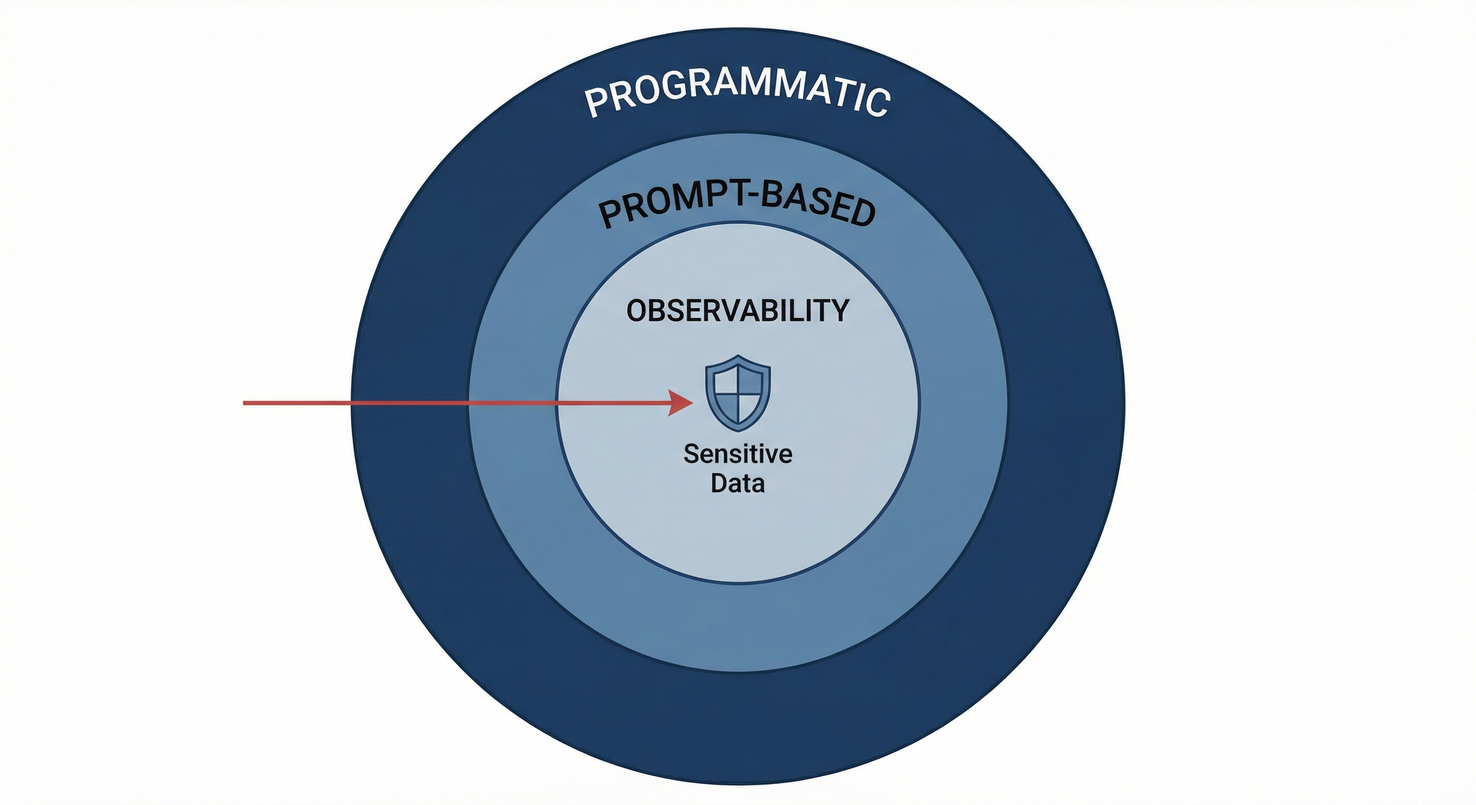
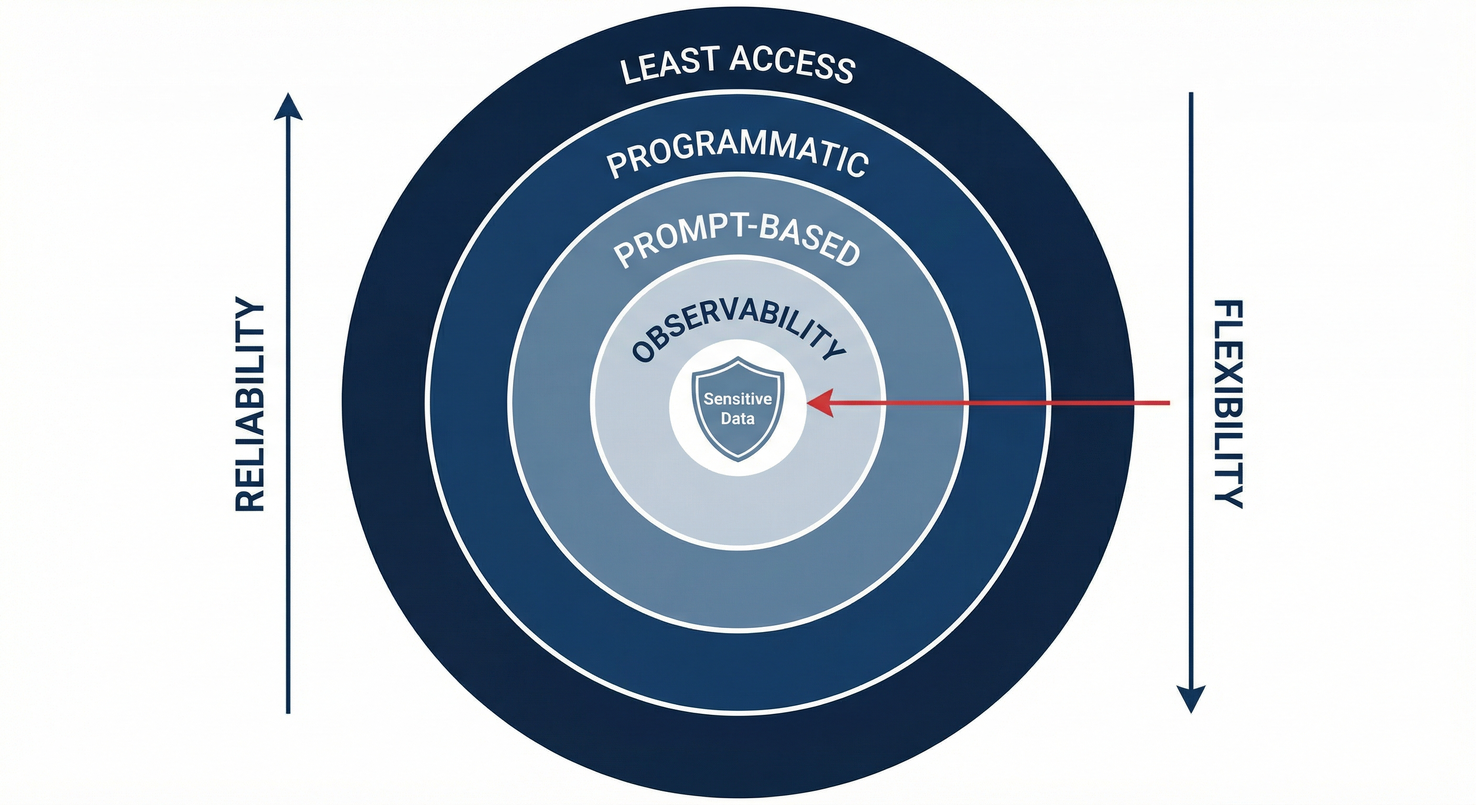
Add Layer 0 (Least Access) — four-layer security model
The most fundamental layer: give the agent its own identity and share data
selectively, like onboarding a real employee. Updated diagram to four
concentric rings with reliability/flexibility gradient. Added Least Access
row to all three vector summary tables. Fixed observability reliability
rating to "lowest" (detection, not prevention).

Changed region(s): [[0.1562, 0.0, 0.8438, 1.0]]

diff --git a/claudie-security-briefing.html b/claudie-security-briefing.html
@@ -299,12 +299,18 @@
     <p>This is the most likely threat to materialize day-to-day, and it doesn't require an attacker at all. Your agent has access to sensitive data &mdash; even one leadership inbox with NDA-bound client information is enough. It talks to multiple people with different clearance levels. If someone casually asks a question and the agent helpfully answers with data they shouldn't see, that's a leak. The agent's default behavior is to be helpful. <strong>Helpfulness without access control is a liability.</strong></p>
 
     <!-- THREE PROTECTION LAYERS -->
-    <h1 id="three-layers" style="font-size: 1.8rem; margin: 2.5rem 0 1rem; padding-bottom: 0.5rem; border-bottom: 3px solid var(--accent);">Three Layers of Protection</h1>
+    <h1 id="three-layers" style="font-size: 1.8rem; margin: 2.5rem 0 1rem; padding-bottom: 0.5rem; border-bottom: 3px solid var(--accent);">Four Layers of Protection</h1>
 
-    <p>Every threat vector above is addressed by three types of defense, stacked. Each operates at a different level of the stack, with a different reliability/flexibility tradeoff.</p>
+    <p>Every threat vector above is addressed by four types of defense, stacked. As you move down the stack, reliability decreases and flexibility increases. This is by design &mdash; each layer compensates for the weaknesses of the ones above it.</p>
 
     <table class="ring-table">
       <tr><th>Layer</th><th>What it is</th><th>Reliability</th><th>Flexibility</th></tr>
+      <tr>
+        <td><strong>Least Access</strong></td>
+        <td>The agent gets its own identity and accounts &mdash; not a mirror of someone's full access. Data is shared selectively, just like onboarding a real employee. What was never shared can never be leaked.</td>
+        <td>Highest &mdash; data that doesn't exist in the agent's world can't be exfiltrated by any means</td>
+        <td>Lowest &mdash; binary decision made at setup time, can't adapt dynamically</td>
+      </tr>
       <tr>
         <td><strong>Programmatic</strong></td>
         <td>Code-level blocks that the model cannot override. Permission modes, PreToolUse hooks, identity gates. A dumb bash script that pattern-matches and kills.</td>
@@ -320,20 +326,20 @@
       <tr>
         <td><strong>Observability</strong></td>
         <td>Session logging, conversation viewer, thinking token inspection, forensic investigation skills. Prevents nothing. Catches everything.</td>
-        <td>High &mdash; logs don't lie</td>
-        <td>High &mdash; helps you tighten the other two layers iteratively</td>
+        <td>Lowest &mdash; detection after the fact, not prevention</td>
+        <td>Highest &mdash; can detect anything, no limits on what you can surface. Informs all other layers.</td>
       </tr>
     </table>
 
-    <p>The key insight: <strong>you don't rely on any single layer.</strong> Prompt-based controls are the most flexible but the least reliable under adversarial pressure &mdash; a sufficiently clever injection could convince the model to ignore them. But that's fine, because the programmatic layer catches what the prompt layer misses. And the observability layer catches the near-misses that neither prevented, so you can tighten your rules before a real breach occurs.</p>
+    <p>The key insight: <strong>you don't rely on any single layer.</strong> The Least Access layer is the most reliable but the least flexible &mdash; you decide what to share at setup time and can't adapt on the fly. The Programmatic layer enforces hard rules the model can't override. The Prompt-based layer handles nuance that code can't express. And the Observability layer catches what all three missed, so you can tighten your defenses iteratively.</p>
 
     <p>A valid criticism of prompt-based security is that you're relying on the AI to follow instructions &mdash; and that's true. It has two weaknesses: malicious prompt injection that overrides the instructions, and the model simply getting confused under complex context. But it also has a unique strength: it gets better with every model release, as models improve at instruction-following and detecting injection attempts. The other layers don't improve on their own.</p>
 
     <div style="text-align: center; margin: 2rem 0;">
-      <img src="security-layers-diagram.png" alt="Three concentric security layers: Programmatic (outermost), Prompt-based (middle), Observability (innermost)" style="max-width: 500px; width: 100%; border-radius: 8px;">
+      <img src="security-layers-diagram.png" alt="Four concentric security layers: Least Access (outermost), Programmatic, Prompt-based, Observability (innermost)" style="max-width: 500px; width: 100%; border-radius: 8px;">
     </div>
 
-    <p>An attack must penetrate all three layers to succeed. The rest of this doc walks through each threat vector and shows how all three layers stack against it.</p>
+    <p>An attack must penetrate all four layers to succeed. The rest of this doc walks through each threat vector and shows how all four layers stack against it.</p>
 
     <!-- SUPPLY CHAIN -->
     <h2 id="supply-chain">Vector 1: Supply Chain</h2>
@@ -342,6 +348,10 @@
 
     <table class="ring-table">
       <tr><th>Layer</th><th>How it protects against supply chain attacks</th></tr>
+      <tr>
+        <td><strong>Least Access</strong></td>
+        <td>The agent runs on its own account with only the data explicitly shared with it. A compromised dependency can only access what the agent has &mdash; not the full contents of a leadership inbox or admin account.</td>
+      </tr>
       <tr>
         <td><strong>Programmatic</strong></td>
         <td>Scheduled jobs and non-admin sessions run with restricted permissions (<code>dontAsk</code>). Even if a compromised package tries to exfiltrate data, the harness blocks dangerous tool calls.</td>
@@ -386,6 +396,10 @@ claude -p --dangerously-skip-permissions <span class="string">"..."</span></code
 
     <table class="ring-table">
       <tr><th>Layer</th><th>How it protects against prompt injection</th></tr>
+      <tr>
+        <td><strong>Least Access</strong></td>
+        <td>Even if an injection succeeds in manipulating the agent, the blast radius is limited to what the agent can actually access &mdash; its own account, not someone else's full inbox or credentials.</td>
+      </tr>
       <tr>
         <td><strong>Programmatic</strong></td>
         <td>PreToolUse hooks kill high-risk commands (email send) before execution. Browsing jobs run with <code>dontAsk</code> permissions. Unknown Slack IDs get silent ignore at the bot level.</td>
@@ -438,6 +452,10 @@ COMMAND=$(<span class="keyword">echo</span> "$INPUT" | jq -r '.tool_input.comman
 
     <table class="ring-table">
       <tr><th>Layer</th><th>How it protects against internal leakage</th></tr>
+      <tr>
+        <td><strong>Least Access</strong></td>
+        <td>The agent only has data that was explicitly shared with it. Instead of giving it a leadership inbox, share specific documents and emails selectively. What the agent doesn't have, it can't leak.</td>
+      </tr>
       <tr>
         <td><strong>Programmatic</strong></td>
         <td>Per-user permission tiers block non-admin users from accessing email, calendars, session logs, and config files. Identity-aware file browser hides restricted paths entirely.</td>
@@ -583,7 +601,7 @@ COMMAND=$(<span class="keyword">echo</span> "$INPUT" | jq -r '.tool_input.comman
   <nav class="toc" id="toc">
     <ul>
       <li><a href="#the-problem" class="toc-h1">The Problem</a></li>
-      <li><a href="#three-layers" class="toc-h1">Three Layers of Protection</a></li>
+      <li><a href="#three-layers" class="toc-h1">Four Layers of Protection</a></li>
       <li><a href="#supply-chain" class="toc-h2">Supply Chain</a></li>
       <li><a href="#prompt-injection" class="toc-h2">Prompt Injection</a></li>
       <li><a href="#internal-leakage" class="toc-h2">Internal Leakage</a></li>
